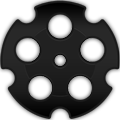
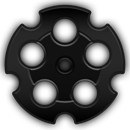
Disabled audio and tween ticker, will performance improve? Added new image for revolver cylinder, adjusted CSS for new dimensions

diff --git a/index.html b/index.html
@@ -12,7 +12,7 @@ A few random notes ...
 
 - Implement a sound queue ... SFX get cued in a chain, returns to loop when all done
 */
-var C_DISAUDIO				= false ;
+var C_DISAUDIO				= true ;
 var C_TAPEVENT				= 'touchstart' 	// 'touchstart' or 'click' for iPad or Desktop...
 // #SEC_JSHEAD
 var C_TTICK_INT   			= 333 ;		// Tween ticker interval (msec)
@@ -662,10 +662,10 @@ html,body{
 #revolver-bbl
 {
 	position: absolute ;
-	width: 120px ;
-	height: 120px ;
+	width: 130px ;
+	height: 130px ;
 	background: url('img/barrels.png') ;
-	left: 452px ;
+	left: 447px ;
 	top: 15px ;
 
 	z-index: 20000 ;
@@ -1803,10 +1803,10 @@ function getRoundedPoint(x1, y1, x2, y2, radius, first) {
 **************************************************/
 function titleSequence1()
 {
-	window.location.href = 'sg-canvas.html' ;
-	return ;
+	//window.location.href = 'sg-canvas.html' ;
+	//return ;
 	
-	_ITWN = window.setInterval('tweenTicker()',C_TTICK_INT) ;
+	//_ITWN = window.setInterval('tweenTicker()',C_TTICK_INT) ;
 	window.setTimeout('titleSequence2()',2000) ;
 }
 
